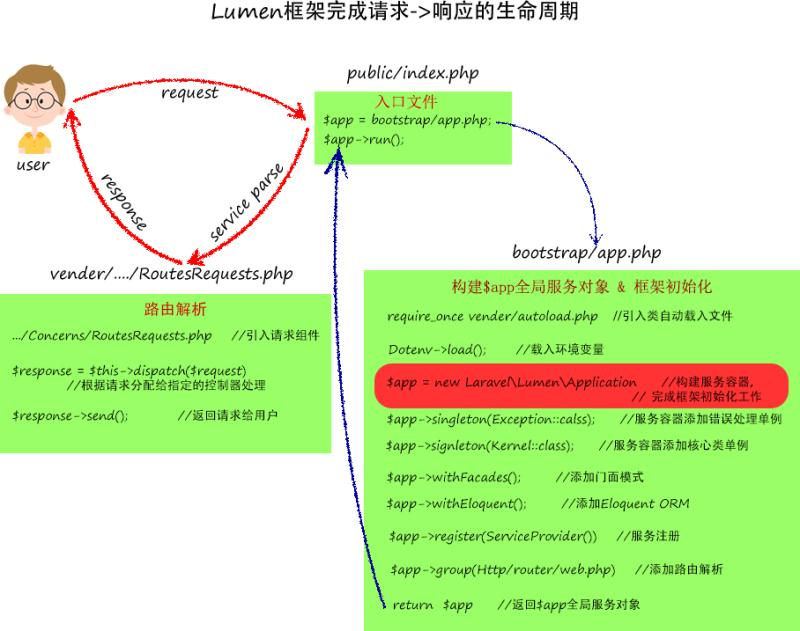
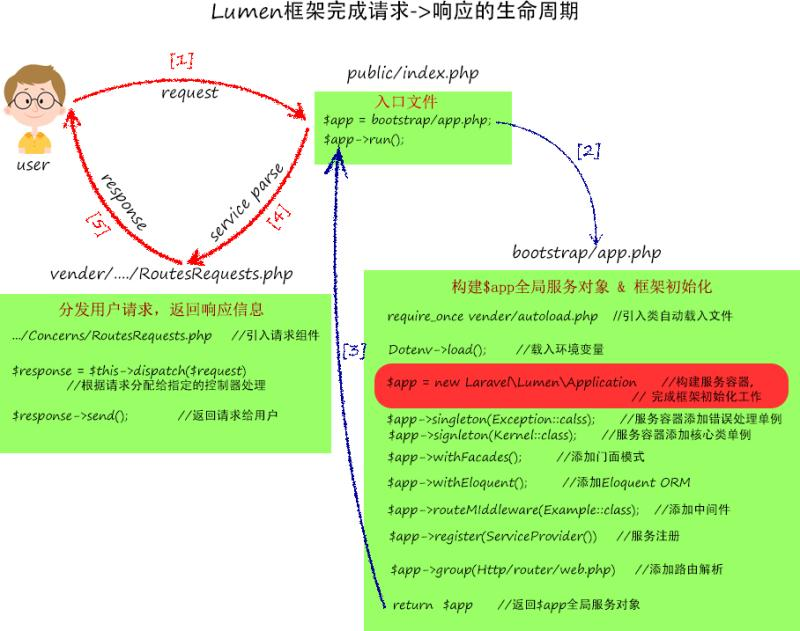
commit files

diff --git a/LIFE_CYCLE.md b/LIFE_CYCLE.md
@@ -2,5 +2,106 @@
 
 Lumen框架的生命周期可以理解为完成一次 request -> response 的过程。可用下图简单表示，笔者将结合Lumen框架源码（**版本号：5.7.7**）做简单介绍。
 
-![lumen框架生命周期图](./images/lumen_life_cycle.jpeg "lumen框架完成一次请求生命周期图")
+![lumen框架生命周期图](./images/lumen_life_cycle.jpeg)
 
+1.用户发起请求，程序执行Lumen入口脚本文件 public/index.php:
+  + 手动加载 bootstrap/app.php: 
+  ```
+  $app = require __DIR__.'/../bootstrap/app.php';
+  ```
+2.接下来程序加载执行 bootstrap/app.php ,这个过程完成了框架初始化的所有工作:
+  + 手动加载类自动载入文件：
+  ```
+  require_once __DIR__ . '/../vendor/autoload.php';
+  ```
+  Lumen框架使用Composer工具管理依赖，根据php的命名空间和SPL(Standard PHP Library)中类自动载入(主要由spl_autoload_register函数实现)特性，结合psr相关规范实现程序运行过程中自动加载使用到的脚本文件(具体实现原理将在“单一入口实现”章节详细介绍)。
+  + 加载环境变量配置
+  ```
+  try {
+    (new Dotenv\Dotenv(dirname(__DIR__)))->load();
+} catch (Dotenv\Exception\InvalidPathException $e) {
+    //
+}
+  ```
+  + 构建容器对象 $app
+  ```
+   $app = new Laravel\Lumen\Application(
+    dirname(__DIR__)
+);
+  ```
+
+  Lumen框架中使用全局服务容器解决实现程序中的依赖注入问题，“服务容器”的实现是框架最核心的部分，也是源码中难以理解的部分。（具体实现将在“服务容器”章节详细讲解）
+
+  + 启动Facades特性(默认关闭):
+  ```
+  $app->withFacades();
+  ```
+
+  + 启用Eloquent特性(默认关闭):
+  ```
+  $app->withEloquent();
+  ```
+
+  + 添加程序使用到的错误处理和核心类库单例
+  ```
+  $app->singleton(
+    Illuminate\Contracts\Debug\ExceptionHandler::class,
+    App\Exceptions\Handler::class
+);
+
+$app->singleton(
+    Illuminate\Contracts\Console\Kernel::class,
+    App\Console\Kernel::class
+);
+  ```
+
+  + 为请求路由添加中间件（默认关闭）
+  ```
+$app->middleware([
+    App\Http\Middleware\ExampleMiddleware::class
+]);
+  ```
+
+  + 注册外部服务 (默认关闭)
+  ```
+$app->register(App\Providers\AppServiceProvider::class);
+  ```
+  Lumen很大一部分特性是依赖ServiceProvider（服务注册）来完成的。
+
+  + 加载执行路由解析文件
+  ```
+  $app->router->group([
+    'namespace' => 'App\Http\Controllers',
+], function ($router) {
+    require __DIR__ . '/../routes/web.php';
+});
+  ```
+
+  + 返回服务容器 $app
+  ```
+   return $app;
+  ```
+
+3.启动容器,根据路由分发请求到相应的处理程序，返回响应结果给用户
+  + 启动容器
+  ```
+  $app->run();
+  ```
+
+  + 分发请求到相应的处理程序，返回响应给用户
+  ```
+  public function run($request = null)
+    {
+        $response = $this->dispatch($request);
+
+        if ($response instanceof SymfonyResponse) {
+            $response->send();
+        } else {
+            echo (string)$response;
+        }
+
+        if (count($this->middleware) > 0) {
+            $this->callTerminableMiddleware($response);
+        }
+    }
+  ```

diff --git a/SUMMARY.md b/SUMMARY.md
@@ -1,6 +1,6 @@
 # Summary
 
 * [Lumen框架简介](README.md)
-* [Lumen框架的生命周期](LIFE_CYCLE.md)
+* [请求->响应的生命周期](LIFE_CYCLE.md)
 
 
